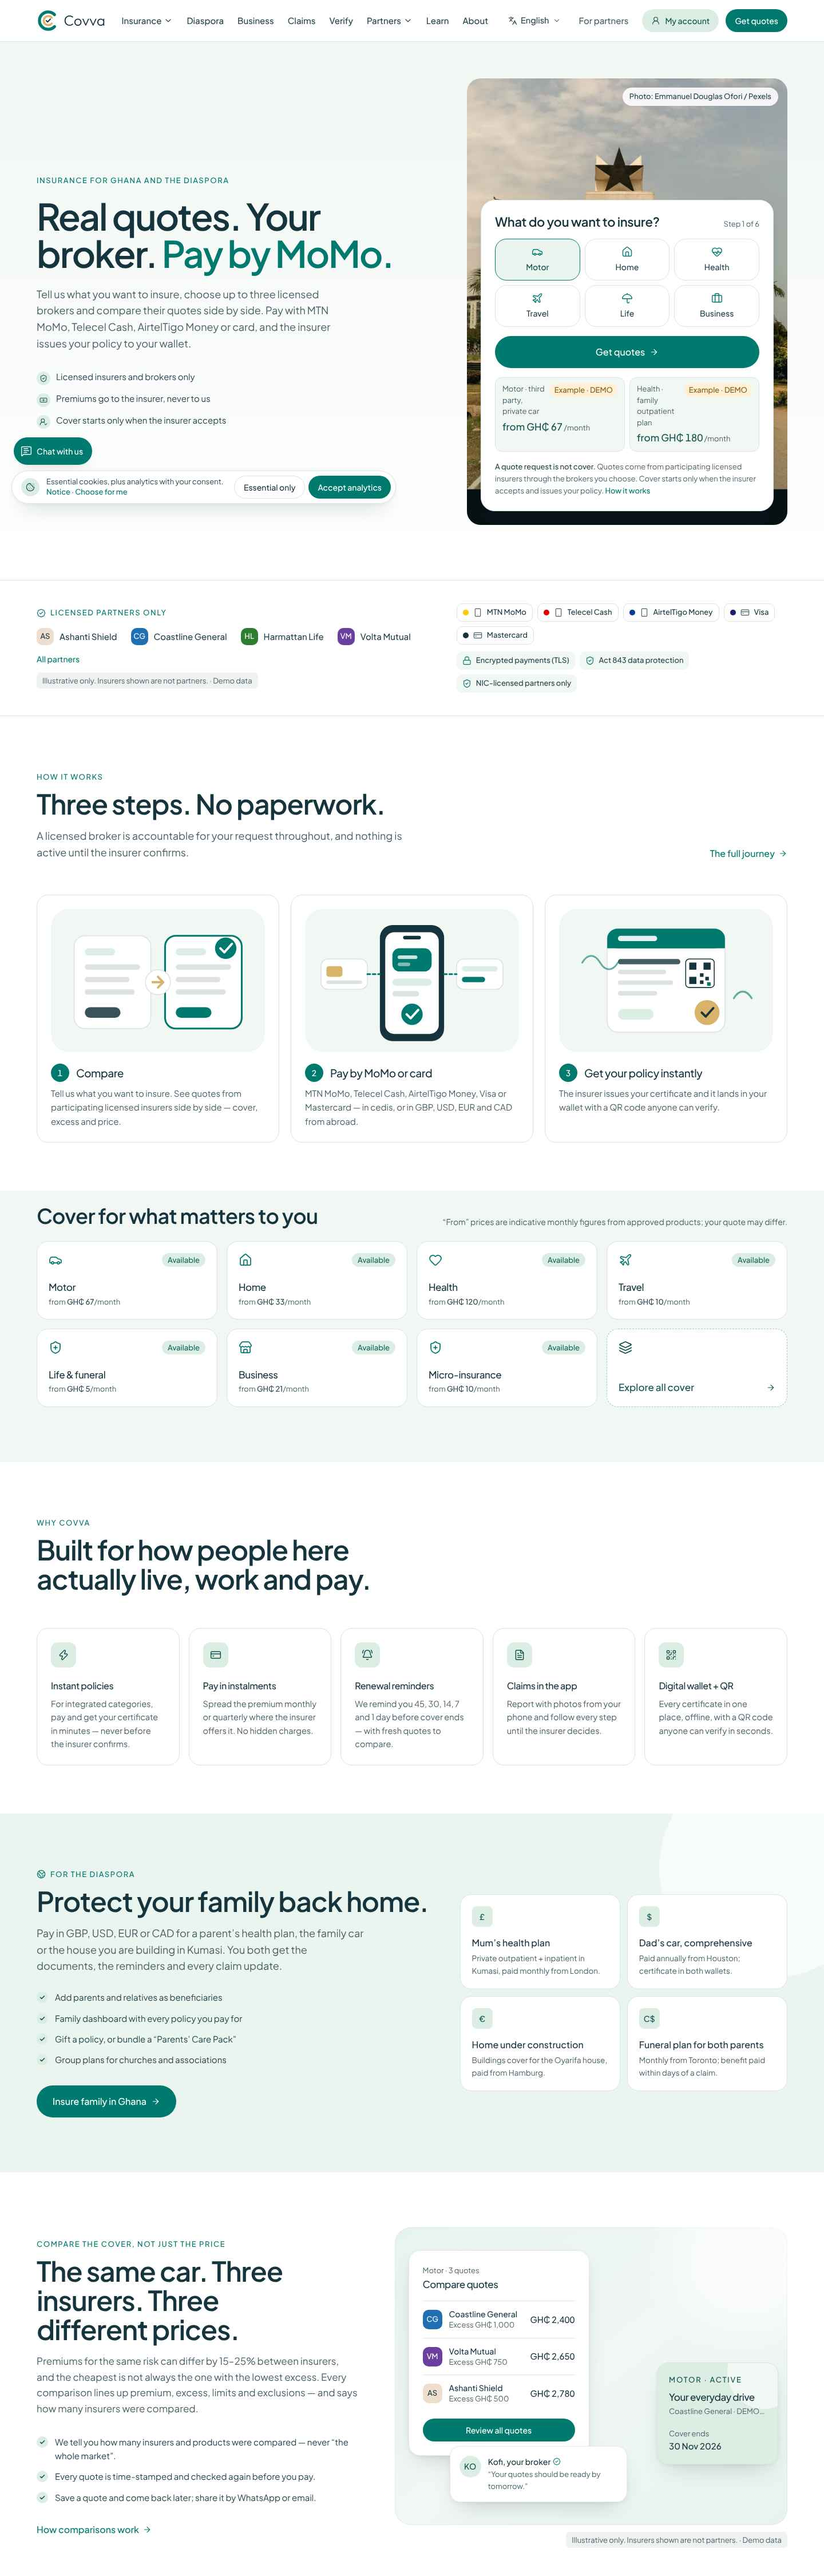
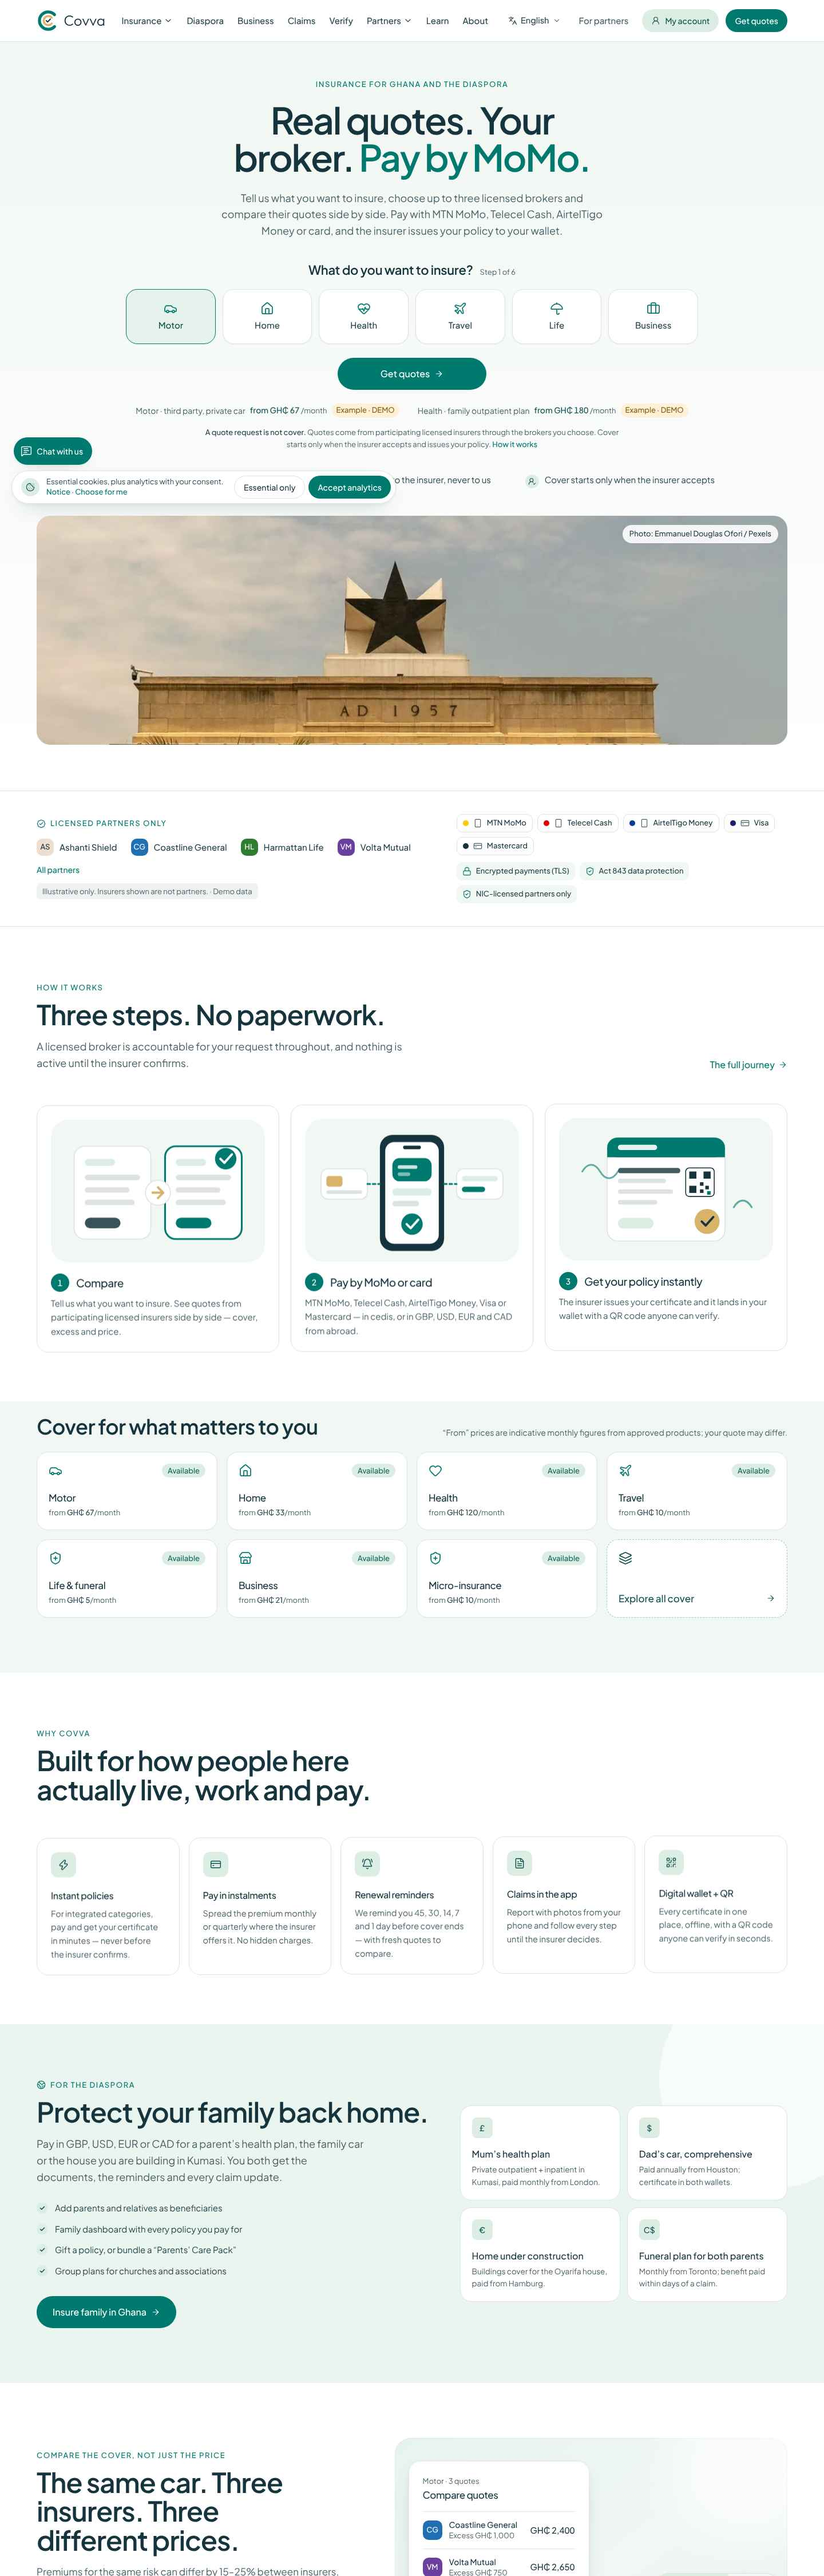
Home hero: centre the picker under the headline (redesign variation A)
The headline, paragraph and six-category picker are centred in one column, with all six cover types in
one row on desktop (3×2 on phones) and Get quotes under them. The two "Example · DEMO" prices sit on one
line each, then the disclaimer and the trust ticks in a row. The Accra photo moves into a wide credited
band below, cropped clear of the dark strip along the file's bottom edge. It is no longer preloaded,
since the headline is what loads first.

One form now serves phone and desktop: on phones the picker sits directly under the headline, above
the paragraph, as before. Layout references: monday.com and VEED heroes on Mobbin.

Claude-Session: https://claude.ai/code/session_01TKKtSYqEyPZxGqLcYp3UjM

diff --git a/apps/web/src/components/marketing/home-hero.tsx b/apps/web/src/components/marketing/home-hero.tsx
@@ -13,73 +13,61 @@ const TICKS = [
 ];
 
 /**
- * Home hero (mockup 01). Left: overline, headline, paragraph and three trust ticks. Right: a photo-led band
- * (Accra, credited, credit kept away from the people in the frame) with the framed quote card on top.
- * On phones the quote card sits directly under the headline, above the fold; the photo is not loaded there.
+ * Home hero (redesign variation A, after monday.com and VEED on Mobbin): overline, headline and paragraph
+ * centred, the six-category picker in one row with Get quotes under it, the trust ticks in a row, then the
+ * Accra photo as a wide band (credited). On phones the picker sits directly under the headline, above the
+ * paragraph (order utilities), and the photo is not loaded.
  */
 export function HomeHero({ examples }: { examples: HeroExample[] }) {
   return (
     <section aria-labelledby="hero-title" className="relative overflow-x-clip bg-gradient-to-b from-mist to-white">
-      <Container className="grid gap-8 pb-16 pt-10 lg:grid-cols-[minmax(0,1fr)_minmax(0,560px)] lg:items-center lg:gap-16 lg:pb-24 lg:pt-16">
-        {/* Copy. On phones the quote card is inserted between the headline and the paragraph (order utilities). */}
-        <div className="contents lg:block">
-          <div className="order-1">
-            <Eyebrow>Insurance for Ghana and the diaspora</Eyebrow>
-            <h1 id="hero-title" className="mt-5 text-h1 text-ink">
-              Real quotes. Your broker. <span className="text-brand">Pay by MoMo.</span>
-            </h1>
-          </div>
-
-          <div className="order-2 lg:hidden">
-            <HeroQuoteCard examples={examples} slot="mobile" />
-          </div>
-
-          <div className="order-3">
-            <p className="mt-6 max-w-[34rem] text-lead text-muted lg:mt-6">
-              <Experiment
-                name="home_hero_headline"
-                variants={{
-                  control: <>Tell us what you want to insure, choose up to three licensed brokers and compare their quotes side by side. Pay with MTN MoMo, Telecel Cash, AirtelTigo Money or card, and the insurer issues your policy to your wallet.</>,
-                  instant: <>Compare, buy and manage insurance in minutes: real quotes from licensed insurers through brokers you choose, paid by MoMo or card, with your policy issued by the insurer straight to your wallet.</>,
-                }}
-              />
-            </p>
-            <ul className="mt-8 grid gap-3 text-[15px] text-ink-2 sm:grid-cols-3 lg:grid-cols-1">
-              {TICKS.map(({ Icon, text }) => (
-                <li key={text} className="flex items-start gap-2.5">
-                  <span aria-hidden className="mt-0.5 grid size-6 shrink-0 place-items-center rounded-full bg-mint text-brand-deep"><Icon className="size-3.5" /></span>
-                  {text}
-                </li>
-              ))}
-            </ul>
-          </div>
+      <Container className="flex flex-col items-center pb-16 pt-10 text-center lg:pb-20 lg:pt-16">
+        <div className="order-1">
+          <Eyebrow>Insurance for Ghana and the diaspora</Eyebrow>
+          <h1 id="hero-title" className="mx-auto mt-5 max-w-[16ch] text-h1 text-ink">
+            Real quotes. Your broker. <span className="text-brand">Pay by MoMo.</span>
+          </h1>
         </div>
 
-        {/* Photo band with the framed quote card (desktop). */}
-        <div className="relative hidden lg:block">
-          <div className="relative min-h-[780px] overflow-hidden rounded-hero bg-mint">
-            <Image
-              src={heroPhoto}
-              alt={HERO_PHOTO.alt}
-              fill
-              priority
-              sizes="(min-width: 1024px) 560px, 0px"
-              placeholder="blur"
-              className="object-cover object-[50%_30%]"
-            />
-            <div aria-hidden className="absolute inset-0 bg-gradient-to-t from-ink/35 via-transparent to-transparent" />
-            <a
-              href={HERO_PHOTO.creditHref}
-              target="_blank"
-              rel="noreferrer"
-              className="absolute right-4 top-4 rounded-full bg-white/90 px-3 py-1.5 text-[13px] font-medium text-ink-2 shadow-card backdrop-blur hover:bg-white focus-visible:outline-none focus-visible:ring-2 focus-visible:ring-brand"
-            >
-              {HERO_PHOTO.credit}<span className="sr-only"> (opens in a new tab)</span>
-            </a>
-            <div className="absolute inset-x-6 bottom-6">
-              <HeroQuoteCard examples={examples} />
-            </div>
-          </div>
+        <p className="order-3 mx-auto mt-6 max-w-[42rem] text-lead text-muted lg:order-2">
+          <Experiment
+            name="home_hero_headline"
+            variants={{
+              control: <>Tell us what you want to insure, choose up to three licensed brokers and compare their quotes side by side. Pay with MTN MoMo, Telecel Cash, AirtelTigo Money or card, and the insurer issues your policy to your wallet.</>,
+              instant: <>Compare, buy and manage insurance in minutes: real quotes from licensed insurers through brokers you choose, paid by MoMo or card, with your policy issued by the insurer straight to your wallet.</>,
+            }}
+          />
+        </p>
+
+        <HeroQuoteCard examples={examples} className="order-2 mt-8 max-w-[1000px] lg:order-3 lg:mt-10" />
+
+        <ul className="order-4 mt-8 grid gap-3 text-left text-[15px] text-ink-2 sm:grid-cols-3 sm:gap-8 lg:mt-10">
+          {TICKS.map(({ Icon, text }) => (
+            <li key={text} className="flex items-start gap-2.5">
+              <span aria-hidden className="mt-0.5 grid size-6 shrink-0 place-items-center rounded-full bg-mint text-brand-deep"><Icon className="size-3.5" /></span>
+              {text}
+            </li>
+          ))}
+        </ul>
+
+        {/* Photo band (desktop). The source file has a dark strip along its bottom edge; this crop keeps it out. */}
+        <div className="relative order-5 mt-12 hidden h-[400px] w-full overflow-hidden rounded-hero bg-mint lg:block">
+          <Image
+            src={heroPhoto}
+            alt={HERO_PHOTO.alt}
+            fill
+            sizes="(min-width: 1024px) 1280px, 0px"
+            placeholder="blur"
+            className="object-cover object-[50%_14%]"
+          />
+          <a
+            href={HERO_PHOTO.creditHref}
+            target="_blank"
+            rel="noreferrer"
+            className="absolute right-4 top-4 rounded-full bg-white/90 px-3 py-1.5 text-[13px] font-medium text-ink-2 shadow-card backdrop-blur hover:bg-white focus-visible:outline-none focus-visible:ring-2 focus-visible:ring-brand"
+          >
+            {HERO_PHOTO.credit}<span className="sr-only"> (opens in a new tab)</span>
+          </a>
         </div>
       </Container>
     </section>

diff --git a/apps/web/src/components/marketing/hero-quote-card.tsx b/apps/web/src/components/marketing/hero-quote-card.tsx
@@ -15,58 +15,59 @@ export const HERO_CATEGORIES = [
 export interface HeroExample { label: string; monthly: number }
 
 /**
- * Framed quote card in the hero: a 6-category picker, a "Get quotes" pill, two "Example · DEMO" prices and the
- * "A quote request is not cover" disclaimer. A plain GET form, so it works before hydration and without JS:
- * the chosen category lands on /quote?category=… where the one-question-per-screen flow starts.
+ * The hero's cover picker (redesign variation A): heading, six category tiles in one row on desktop (3×2 on
+ * phones), a "Get quotes" pill, the two "Example · DEMO" prices on one line each and the "A quote request is
+ * not cover" disclaimer. A plain GET form, so it works before hydration and without JS: the chosen category
+ * lands on /quote?category=… where the one-question-per-screen flow starts.
  */
-export function HeroQuoteCard({ examples, defaultLine = "motor", className, slot = "desktop" }: { examples: HeroExample[]; defaultLine?: string; className?: string; slot?: "desktop" | "mobile" }) {
-  const titleId = `hero-quote-title-${slot}`;
+export function HeroQuoteCard({ examples, defaultLine = "motor", className }: { examples: HeroExample[]; defaultLine?: string; className?: string }) {
+  const titleId = "hero-quote-title";
   return (
-    <form action="/quote" method="get" aria-labelledby={titleId} className={cn("rounded-hero border border-line bg-white p-5 shadow-float sm:p-6", className)}>
-      <div className="flex items-baseline justify-between gap-3">
+    <form action="/quote" method="get" aria-labelledby={titleId} className={cn("w-full text-center", className)}>
+      <div className="flex flex-wrap items-baseline justify-center gap-x-3 gap-y-1">
         <h2 id={titleId} className="font-display text-[22px] leading-tight text-ink">What do you want to insure?</h2>
         <span className="whitespace-nowrap text-[13px] text-muted">Step 1 of 6</span>
       </div>
 
-      <fieldset className="mt-4">
+      <fieldset className="mt-5">
         <legend className="sr-only">Type of cover</legend>
-        <div className="grid grid-cols-3 gap-2">
+        <div className="grid grid-cols-3 gap-2 sm:grid-cols-6 lg:gap-3">
           {HERO_CATEGORIES.map(({ line, label, Icon }) => (
             <label
               key={line}
               className={cn(
-                "group flex min-h-[72px] cursor-pointer flex-col items-center justify-center gap-1.5 rounded-card border border-line bg-white px-2 py-3 text-center text-[14px] font-medium text-ink-2 transition-colors",
+                "flex min-h-[72px] cursor-pointer flex-col items-center justify-center gap-1.5 rounded-card border border-line bg-white px-2 py-3 text-[14px] font-medium text-ink-2 shadow-card transition-colors lg:min-h-[96px] lg:text-[15px]",
                 "hover:border-brand/50 hover:bg-mist has-[:checked]:border-brand has-[:checked]:bg-mint/60 has-[:checked]:text-brand-deep has-[:focus-visible]:ring-2 has-[:focus-visible]:ring-brand has-[:focus-visible]:ring-offset-2",
               )}
             >
               <input type="radio" name="category" value={line} defaultChecked={line === defaultLine} className="sr-only" />
-              <Icon aria-hidden className="size-5 text-brand" />
+              <Icon aria-hidden className="size-5 text-brand lg:size-6" />
               {label}
             </label>
           ))}
         </div>
       </fieldset>
 
-      <button type="submit" className={buttonClass("primary", "lg", "mt-4 w-full")}>
+      <button type="submit" className={buttonClass("primary", "lg", "mt-6 w-full sm:w-auto sm:min-w-[260px]")}>
         Get quotes <ArrowRight aria-hidden className="size-4" />
       </button>
 
-      <ul className="mt-4 grid gap-2 sm:grid-cols-2" aria-label="Example prices">
+      <ul className="mt-6 flex flex-col items-center gap-2 sm:flex-row sm:flex-wrap sm:justify-center sm:gap-x-8" aria-label="Example prices">
         {examples.slice(0, 2).map((e) => (
-          <li key={e.label} className="rounded-field border border-line bg-mist px-3 py-2.5">
-            <p className="flex items-start justify-between gap-2 text-[13px] text-muted">
-              <span>{e.label}</span>
-              <span className="shrink-0 whitespace-nowrap rounded-full bg-amber-bg px-2 py-0.5 font-medium text-amber">Example · DEMO</span>
-            </p>
-            <p className="mt-1 text-ink">
-              <span className="text-[17px] font-semibold tabular-nums text-brand-deep">from GH₵ {e.monthly}</span>
-              <span className="text-[13px] text-muted"> /month</span>
-            </p>
+          <li key={e.label} className="flex flex-col items-center gap-1 text-[14px] sm:flex-row sm:gap-2">
+            <span className="text-muted">{e.label}</span>
+            <span className="flex items-center gap-2 whitespace-nowrap">
+              <span>
+                <span className="font-semibold tabular-nums text-brand-deep">from GH₵ {e.monthly}</span>
+                <span className="text-[13px] text-muted"> /month</span>
+              </span>
+              <span className="rounded-full bg-amber-bg px-2 py-0.5 text-[13px] font-medium text-amber">Example · DEMO</span>
+            </span>
           </li>
         ))}
       </ul>
 
-      <p className="mt-4 text-[13px] leading-relaxed text-muted">
+      <p className="mx-auto mt-4 max-w-[46rem] text-[13px] leading-relaxed text-muted">
         <strong className="font-semibold text-ink-2">A quote request is not cover.</strong> Quotes come from participating licensed insurers through the brokers you choose. Cover starts only when the insurer accepts and issues your policy.{" "}
         <Link href="/how-it-works" className="font-medium text-brand underline-offset-2 hover:underline">How it works</Link>
       </p>
